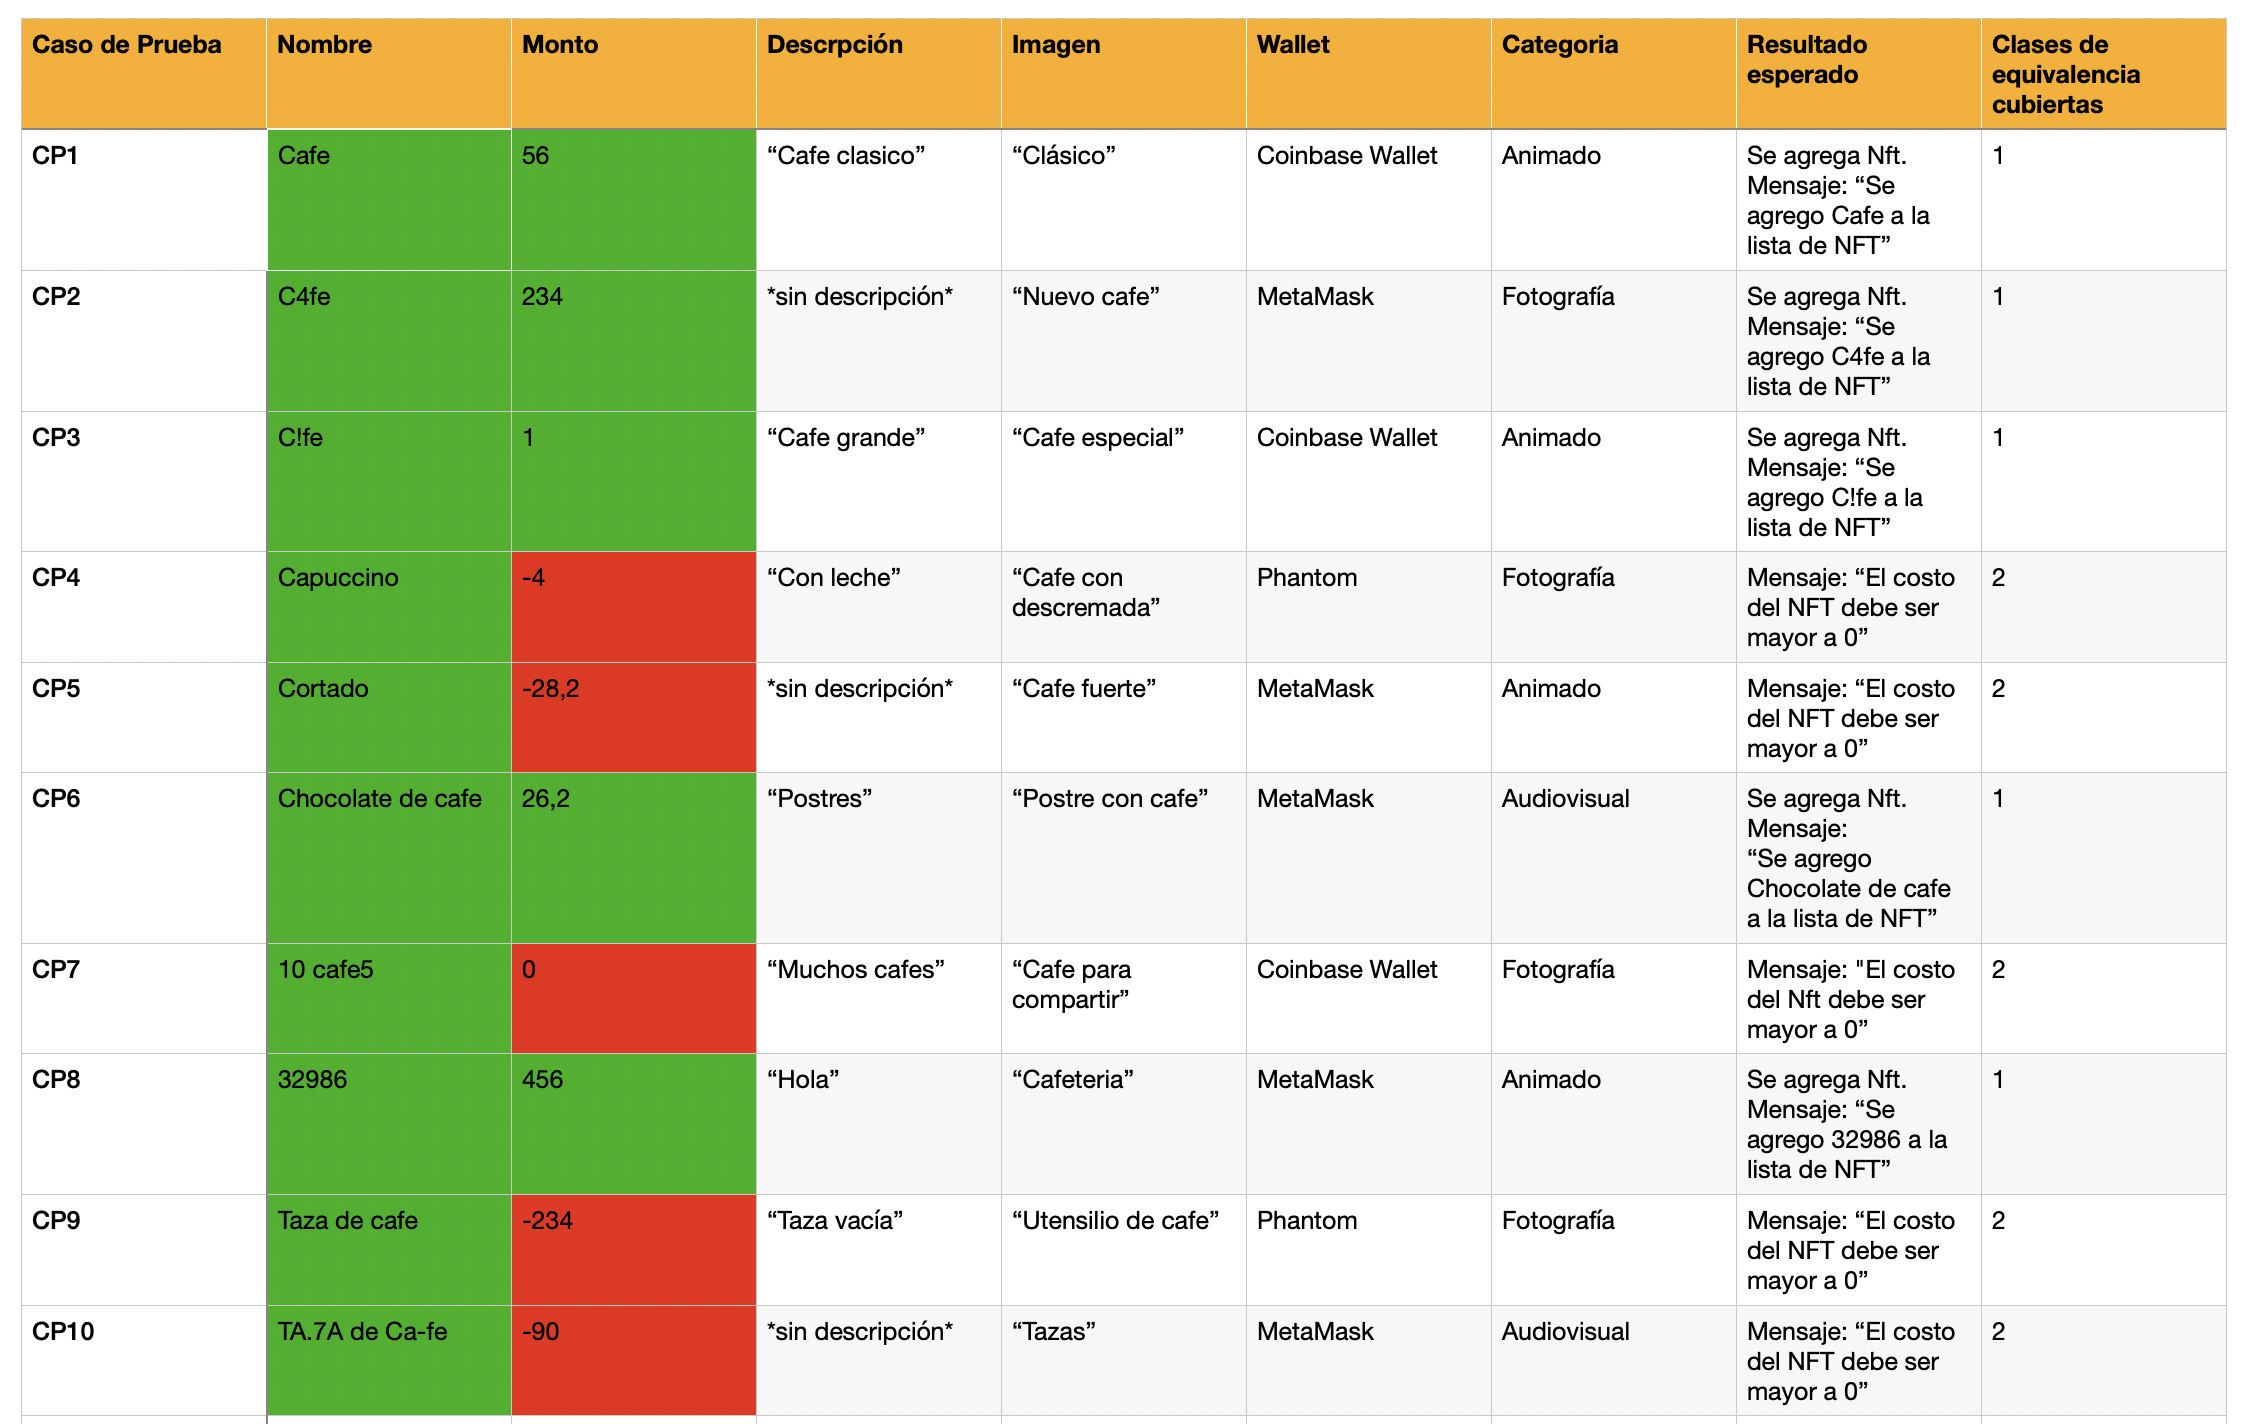
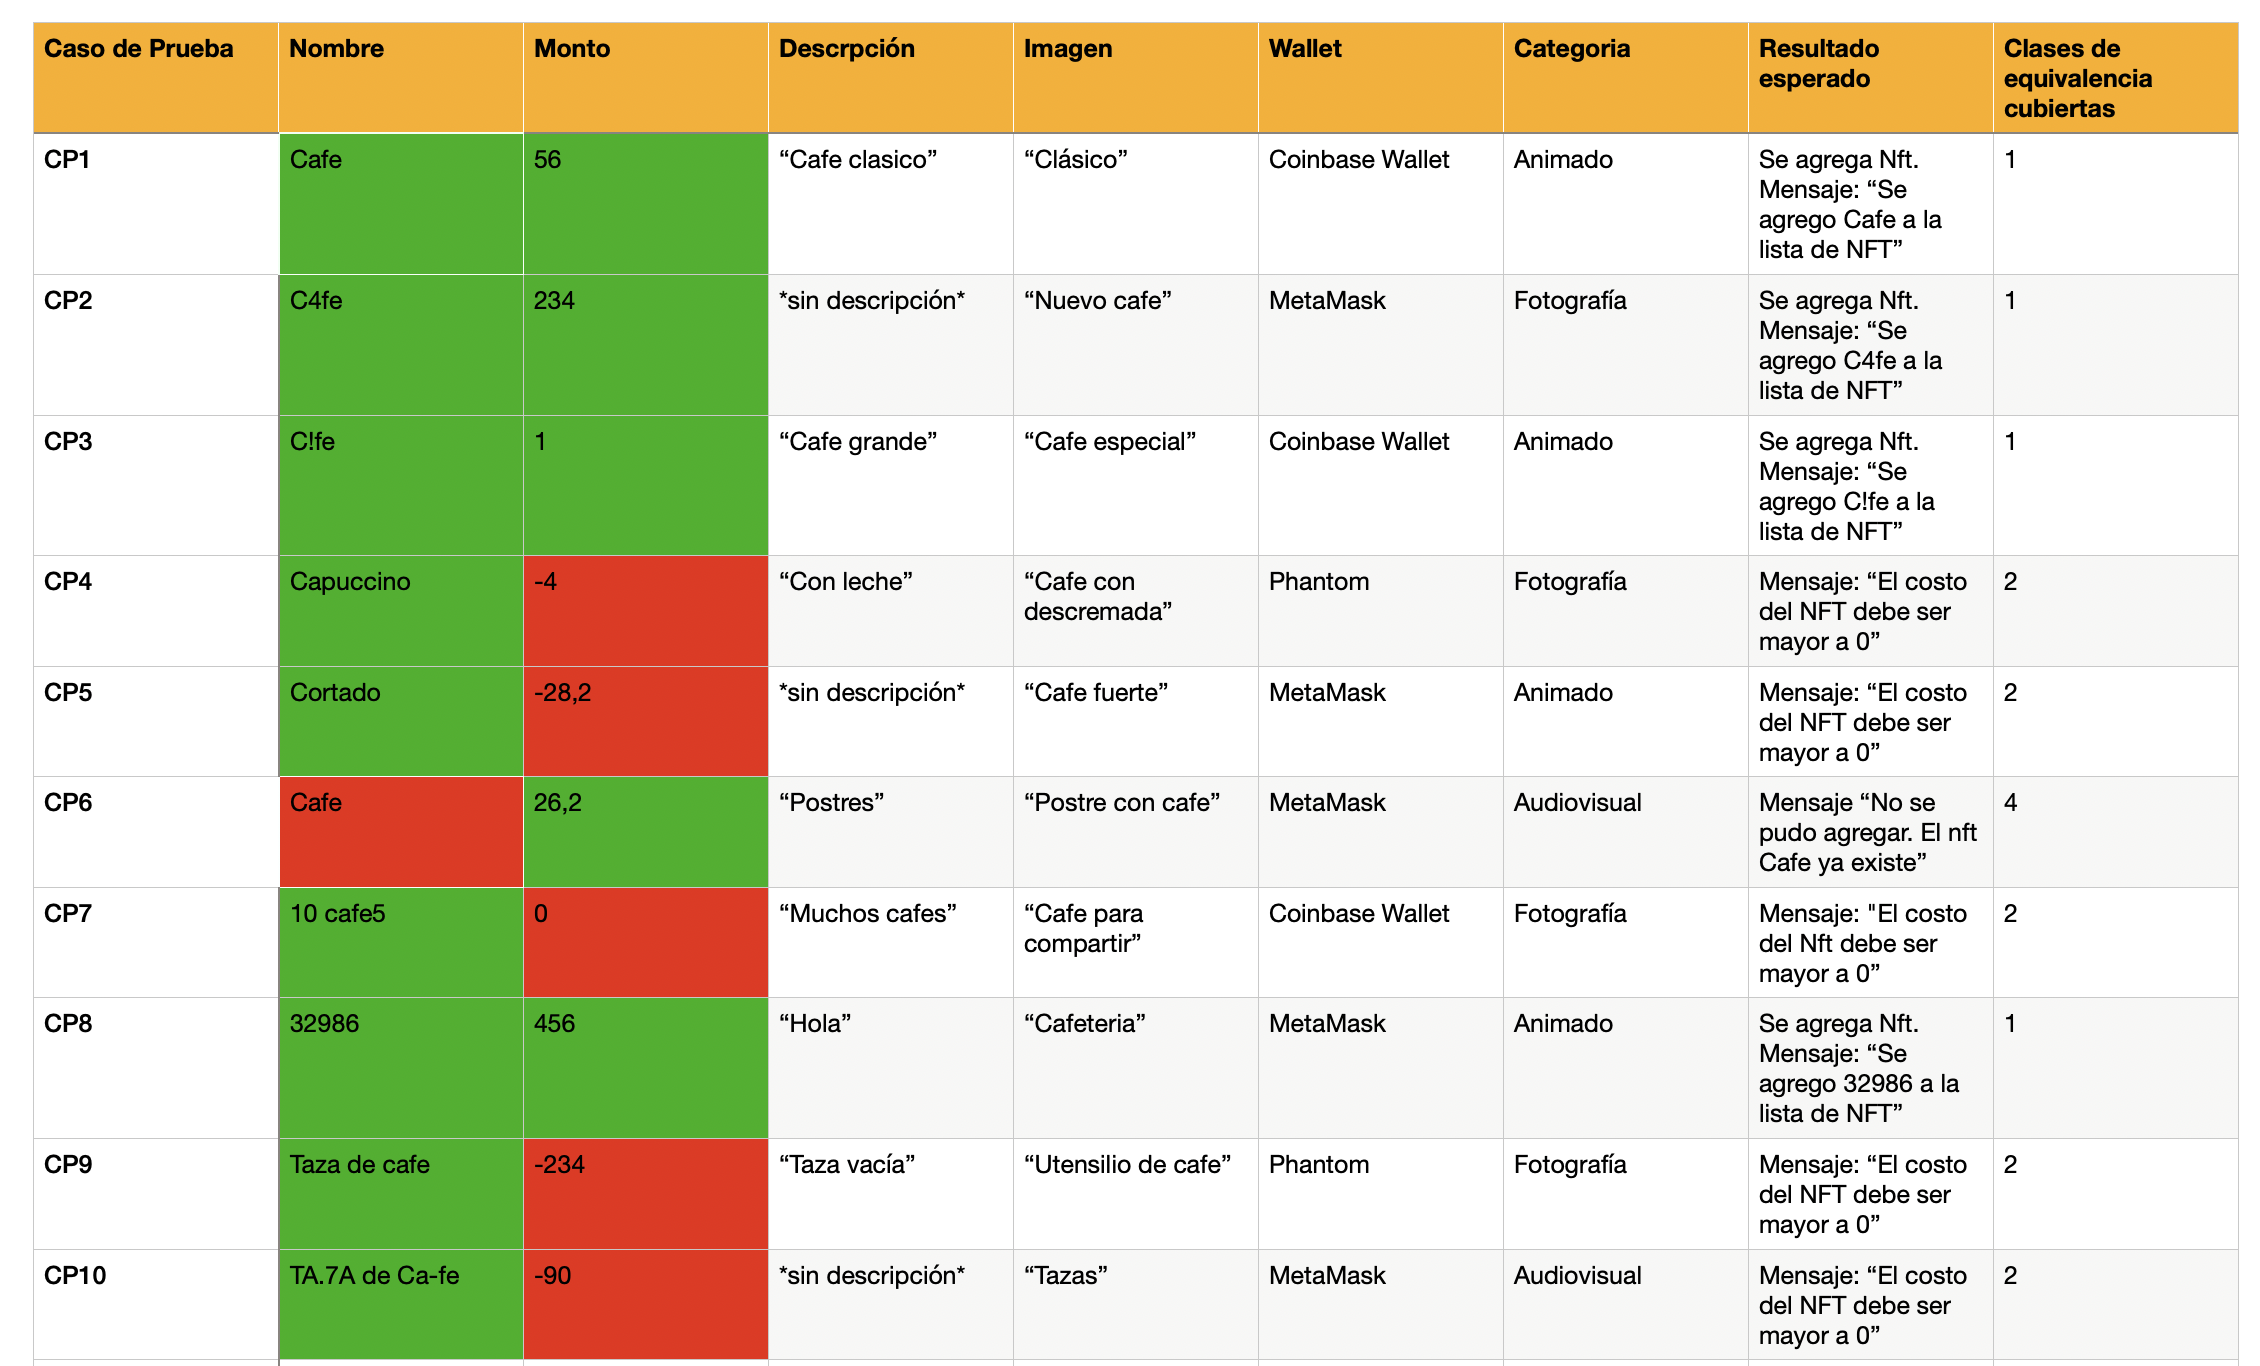
particion equivalente

diff --git a/README.md b/README.md
@@ -227,9 +227,10 @@ Debido al sistema operativo del que disponiamos cada una de las integrantes del 
 
 Realizamos los siguientes casos de pruebas de la funcionalidad **"Agregar Nft"**: 
 
-| Entrada / Variable | Clases Validas                          | Clases Invalidas                       | 
-|--------------------|-----------------------------------------|----------------------------------------|
-| Monto              |Caracteres numéricos positivos o cero con decimales(1) | Caracteres numéricos negativos(2)      |
+| Entrada / Variable | Clases Validas                                        | Clases Invalidas                               | 
+|--------------------|-------------------------------------------------------|------------------------------------------------|
+| Monto              |Caracteres numéricos positivos o cero con decimales(1) | Caracteres numéricos negativos(2)              |
+| Nombre             |No repetidos(3)                                        | Repetidos(4)                                   |
   
 <img src="./particiónEquivalente.png" alt="Partición equivalente" /> 
 
